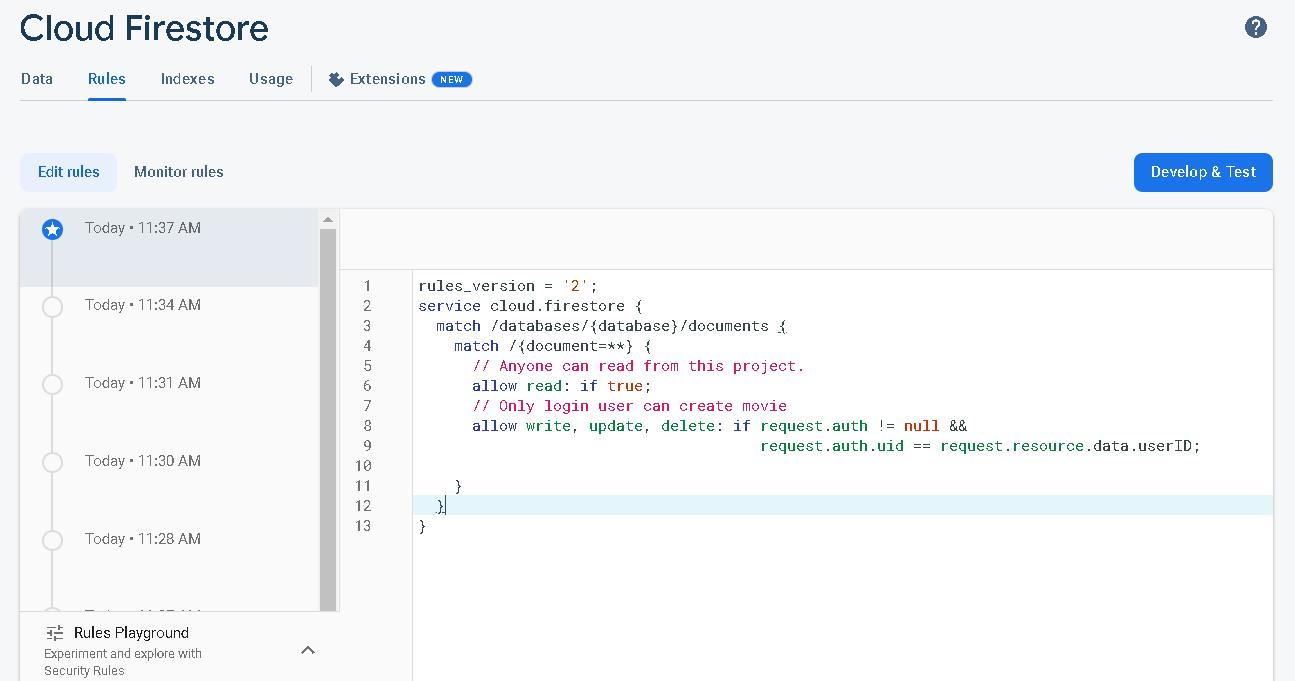
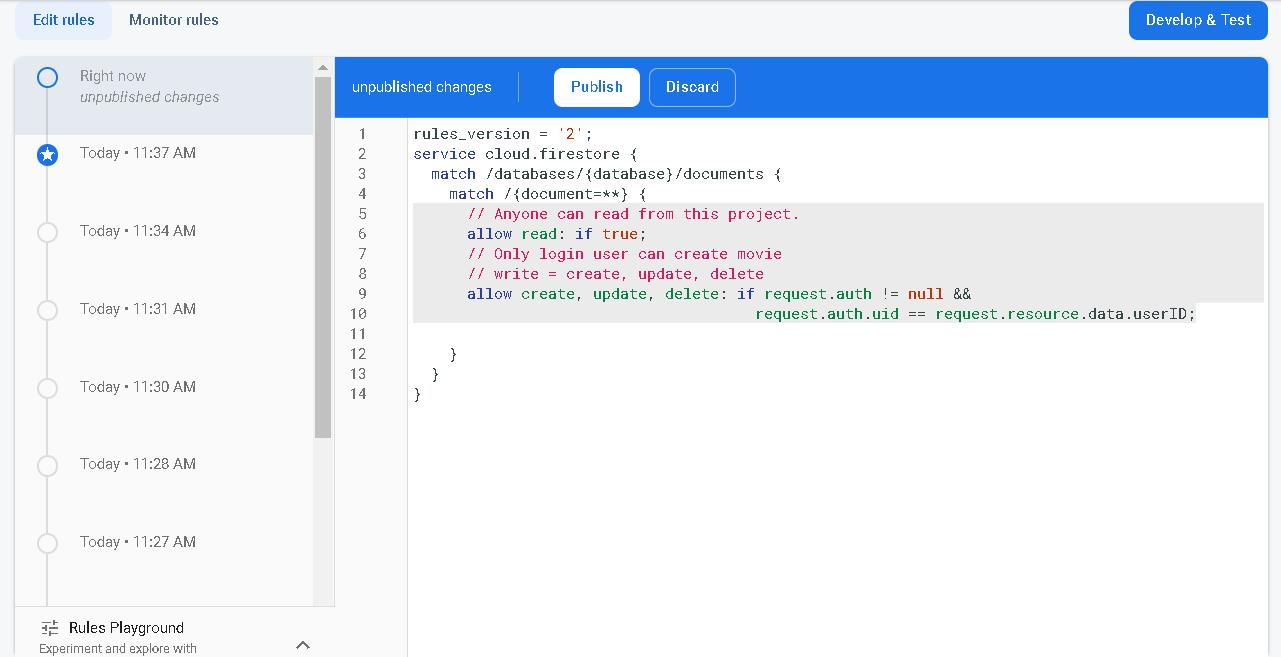
minor code fix

diff --git a/src/App.js b/src/App.js
@@ -92,29 +92,26 @@ function App() {
           </div>
         ))}
       </div>
-      { auth?.currentUser!==null && 
-          <div>
-          <h3>Add Movie</h3>
-          <div>
-            <input type='text' placeholder='Movie title...' 
-                onChange={e => setNewMovieTitle(e.target.value)} />
-          </div>
-          <div>
-            <input type='number' placeholder='Release date...' 
-                onChange={e => setNewReleaseDate(Number(e.target.value))} />
-          </div>
-          <div>
-            <input type='checkbox' 
-                checked={isNewMovieOscar} 
-                onChange={e => setIsNewMovieOscar(e.target.checked)} />
-            <label>Received an Oscar</label>
-          </div>
-          <div>
-            <button onClick={onSubmit}>Submit Movie</button>
-          </div>
+        <div>
+        <h3>Add Movie</h3>
+        <div>
+          <input type='text' placeholder='Movie title...' 
+              onChange={e => setNewMovieTitle(e.target.value)} />
         </div>
-      }
-      <hr />
+        <div>
+          <input type='number' placeholder='Release date...' 
+              onChange={e => setNewReleaseDate(Number(e.target.value))} />
+        </div>
+        <div>
+          <input type='checkbox' 
+              checked={isNewMovieOscar} 
+              onChange={e => setIsNewMovieOscar(e.target.checked)} />
+          <label>Received an Oscar</label>
+        </div>
+        <div>
+          <button onClick={onSubmit}>Submit Movie</button>
+        </div>
+      </div>    
       
     </div>
   );

diff --git a/src/config/firebase.js b/src/config/firebase.js
@@ -37,7 +37,8 @@ export const db = getFirestore(app)
         // Anyone can read from this project. 
         allow read: if true;
         // Only login user can create movie
-        allow write, update, delete: if request.auth != null && 
+        // write = create, update, delete 
+        allow create, update, delete: if request.auth != null && 
                                         request.auth.uid == request.resource.data.userID;
         
       }

diff --git a/src/components/auth.js b/src/components/auth.js
@@ -40,6 +40,7 @@ export const Auth = () => {
     const logoutOut = async () => {
         try {
             await signOut(auth)
+            console.log('bye')
         }
         catch (err) {
             console.log(err)
